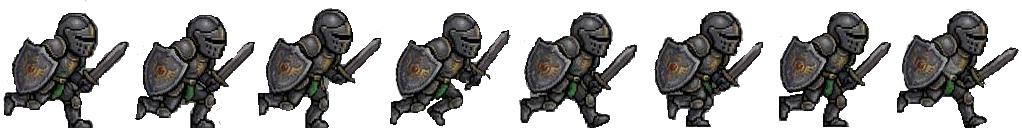
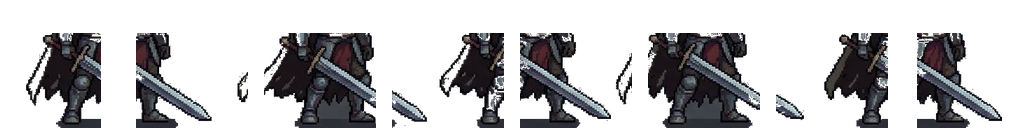
Replace Zero (melee) idle + walk sprites
- Source: 1280x277, 2 rows × 8 columns
  - Top row: idle animation (8 frames)
  - Bottom row: walk animation (8 frames)
- Dark blue-gray bg (~67,70,79) removed via flood fill
- zero_idle_8f.png: 1024x128 (was 4f, now 8f)
- zero_run_8f.png: 1024x128 (replaced)
- Updated main.js idle reference: 4f → 8f, fps 6 → 8

diff --git a/js/main.js b/js/main.js
@@ -172,7 +172,7 @@
     load('xpGem', cfg.xpGem && cfg.xpGem.image);
     load('background', cfg.background && cfg.background.image);
     // 載入近戰角色 sprite strips
-    load('melee_sprite_idle', 'assets/strips/zero_idle_4f.png');
+    load('melee_sprite_idle', 'assets/strips/zero_idle_8f.png');
     load('melee_sprite_run', 'assets/strips/zero_run_8f.png');
     load('archer_sprite_idle', 'assets/strips/archer_idle_4f.png');
     load('archer_sprite_run', 'assets/strips/archer_run_8f.png');
@@ -235,7 +235,7 @@
 
     // 根據角色類型設定動畫
     if (this._selectedCharacter.id === 'melee') {
-      var meleeCfg = { sprites: { idle: { file: 'assets/strips/zero_idle_4f.png', fps: 6 }, run: { file: 'assets/strips/zero_run_8f.png', fps: 10 } } };
+      var meleeCfg = { sprites: { idle: { file: 'assets/strips/zero_idle_8f.png', fps: 8 }, run: { file: 'assets/strips/zero_run_8f.png', fps: 10 } } };
       this.player.animator = this._buildAnimator('melee', meleeCfg);
       this.player.spriteDefaultRight = true;
       this._meleeAttack = new SG.MeleeAttack(this.player);